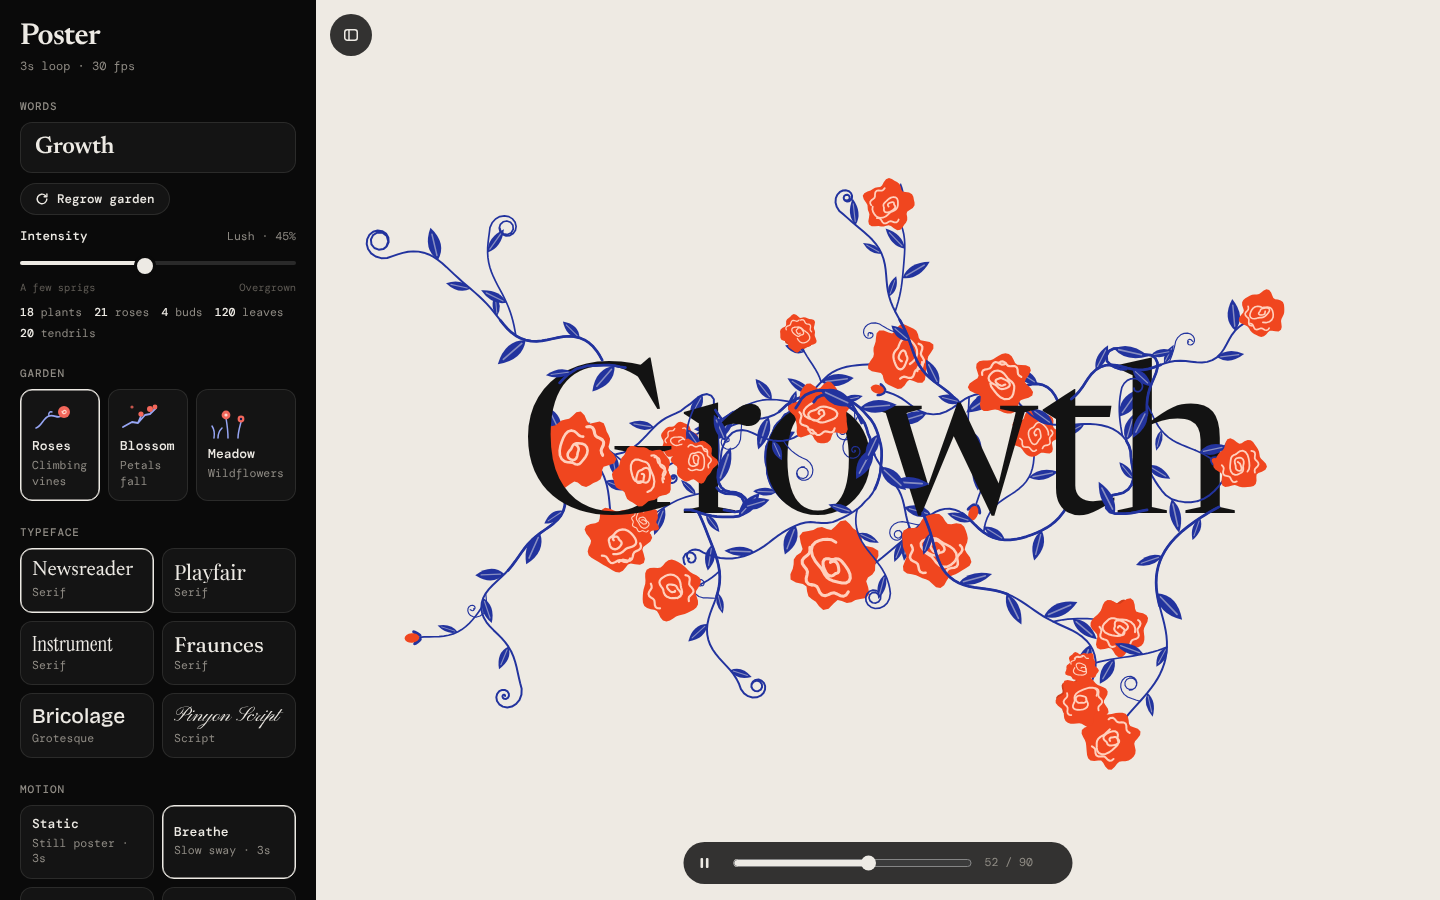
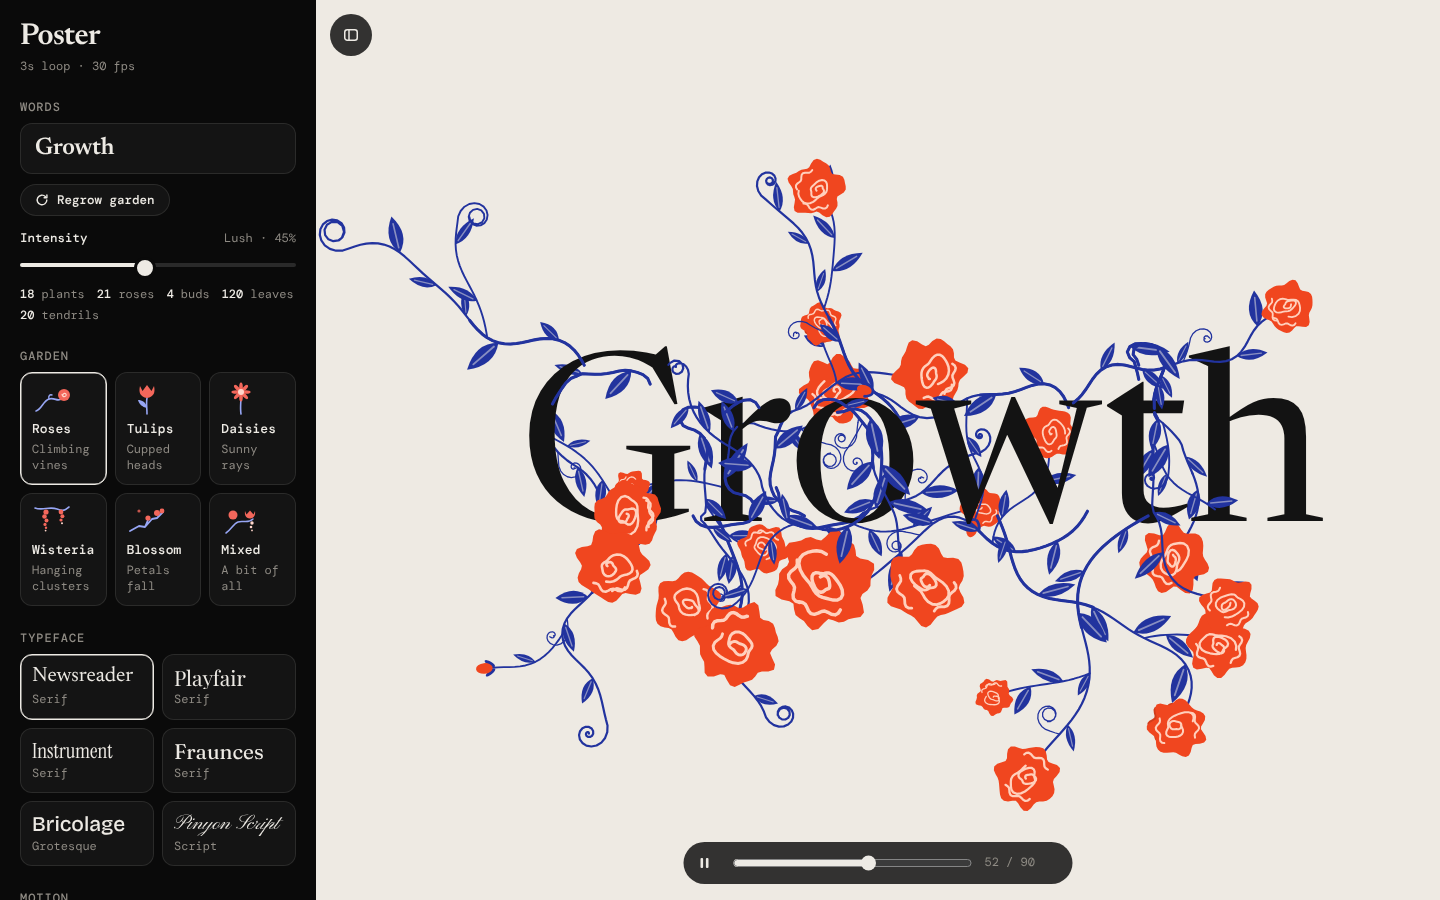
Gardens: add Tulips, Daisies, Wisteria and Mixed; remove Meadow
- Flower gardens reuse the rose vines (same seed, same stems) and
  swap the heads, so Roses stay exactly as before
- New heads: tulip (cup along the stem), wisteria (cluster that hangs
  and swings); daisy and poppy reused; Mixed draws all five
- Meadow generator and grass removed; a saved 'meadow' falls back
  to Roses
- README gardens table and preview images updated

Lighthouse 12.2.1 after this change: mobile 95-97, desktop 100;
Accessibility, Best Practices, SEO 100.

diff --git a/index.html b/index.html
@@ -288,10 +288,16 @@ const MOTIONS = [
 const STYLES = [
   { id:'rose',    name:'Roses',   desc:'Climbing vines', noun:'roses',
     icon:'<svg viewBox="0 0 40 34" fill="none"><path d="M4 30c6-2 7-10 13-12s9 4 14-1" stroke="#97A6F4" stroke-width="1.6" stroke-linecap="round"/><path d="M17 18c-1-3 1-5 3-4" stroke="#97A6F4" stroke-width="1.4" stroke-linecap="round"/><circle cx="32" cy="14" r="6" fill="#F3675B"/><path d="M31 14a1.6 1.6 0 1 1 2 1.5c-1.6.5-3-.6-3-2.2" stroke="#FFD6CB" stroke-width="1.1" stroke-linecap="round"/></svg>' },
+  { id:'tulip',   name:'Tulips',  desc:'Cupped heads', noun:'tulips',
+    icon:'<svg viewBox="0 0 40 34" fill="none"><path d="M20 33c0-6-1-11 0-16" stroke="#97A6F4" stroke-width="1.6" stroke-linecap="round"/><path d="M20 27c-5-1-8-4-9-8 4 0 8 2 9 8z" fill="#97A6F4"/><path d="M13 5l2.5 5L20 4l4.5 6L27 5c1.5 6 0 11-7 12-7-1-8.5-6-7-12z" fill="#F3675B"/></svg>' },
+  { id:'daisy',   name:'Daisies', desc:'Sunny rays', noun:'daisies',
+    icon:'<svg viewBox="0 0 40 34" fill="none"><path d="M20 33c-1-6 0-12 0-18" stroke="#97A6F4" stroke-width="1.6" stroke-linecap="round"/><g fill="#F3675B" transform="translate(20 11)"><ellipse rx="1.8" ry="4.6" cy="-5"/><ellipse rx="1.8" ry="4.6" cy="-5" transform="rotate(45)"/><ellipse rx="1.8" ry="4.6" cy="-5" transform="rotate(90)"/><ellipse rx="1.8" ry="4.6" cy="-5" transform="rotate(135)"/><ellipse rx="1.8" ry="4.6" cy="-5" transform="rotate(180)"/><ellipse rx="1.8" ry="4.6" cy="-5" transform="rotate(225)"/><ellipse rx="1.8" ry="4.6" cy="-5" transform="rotate(270)"/><ellipse rx="1.8" ry="4.6" cy="-5" transform="rotate(315)"/></g><circle cx="20" cy="11" r="3" fill="#FFD6CB"/></svg>' },
+  { id:'wisteria',name:'Wisteria',desc:'Hanging clusters', noun:'clusters',
+    icon:'<svg viewBox="0 0 40 34" fill="none"><path d="M3 6c8 3 14-2 22 1s9 0 12-2" stroke="#97A6F4" stroke-width="1.6" stroke-linecap="round"/><g fill="#F3675B"><circle cx="14" cy="10" r="2.6"/><circle cx="12.5" cy="14.5" r="2.3"/><circle cx="14.5" cy="18.6" r="2"/><circle cx="13" cy="22.4" r="1.6"/><circle cx="14" cy="25.8" r="1.2"/><circle cx="29" cy="10" r="2.4"/><circle cx="30.4" cy="14.2" r="2"/><circle cx="29" cy="18" r="1.6"/></g><g fill="#FFD6CB"><circle cx="13.6" cy="28.6" r=".9"/><circle cx="30" cy="21.2" r="1"/></g></svg>' },
   { id:'blossom', name:'Blossom', desc:'Petals fall', noun:'blossoms',
     icon:'<svg viewBox="0 0 40 34" fill="none"><path d="M3 29l9-5 6 1 7-8 5-1 6-6M18 25l3-7" stroke="#97A6F4" stroke-width="1.8" stroke-linecap="round" stroke-linejoin="round"/><g fill="#F3675B"><circle cx="30" cy="11" r="3"/><circle cx="35" cy="9" r="2.4"/><circle cx="21" cy="16" r="2.6"/></g><circle cx="12" cy="9" r="1.6" fill="#F3675B" opacity=".8"/></svg>' },
-  { id:'meadow',  name:'Meadow',  desc:'Wild blooms', noun:'flowers',
-    icon:'<svg viewBox="0 0 40 34" fill="none"><path d="M6 32c1-6 0-9-2-12M10 32c0-5 2-8 4-10M20 32c0-8-1-14-2-20M30 32c0-6 2-12 3-16" stroke="#97A6F4" stroke-width="1.5" stroke-linecap="round"/><g fill="#F3675B"><circle cx="18" cy="9" r="4.4"/><circle cx="33" cy="13" r="3.4"/></g><circle cx="18" cy="9" r="1.6" fill="#FFD6CB"/><circle cx="33" cy="13" r="1.2" fill="#0C1A4C"/></svg>' },
+  { id:'mix',     name:'Mixed',   desc:'A bit of all', noun:'flowers',
+    icon:'<svg viewBox="0 0 40 34" fill="none"><path d="M5 31c5-3 7-9 12-11s10 2 15-3" stroke="#97A6F4" stroke-width="1.5" stroke-linecap="round"/><circle cx="12" cy="13" r="4.5" fill="#F3675B"/><path d="M24 9l1.5 3.5 3.5-4 3.5 4L34 9c.5 4-.5 7-5 7.5-4.5-.5-5.5-3.5-5-7.5z" fill="#F3675B"/><g fill="#FFD6CB"><circle cx="31" cy="21" r="1.7"/><circle cx="30" cy="25" r="1.3"/><circle cx="31" cy="28.4" r=".9"/></g></svg>' },
 ];
 const FONTS = [
   { id:'newsreader', name:'Newsreader',   family:'Newsreader',          weight:400, fb:'Georgia, serif' },
@@ -460,7 +466,7 @@ function genRosePlant(r, F){
       wav:{ a1:wav.a1*0.6, f1:wav.f1*1.3, p1:r()*TAU, a2:wav.a2*0.5, f2:wav.f2, p2:r()*TAU, bend:wav.bend }, curl:bEnd==='curl', end:bEnd, fl:genRose(r,false), leaves:{} })); }
   const nt = r() < 0.6 ? 1 + (r() < 0.35 ? 1 : 0) : 0;           // little corkscrew tendrils
   for (let t=0;t<nt;t++) twigs.push(addTwig(F, r, main, lay, { at:Math.floor(N*(0.25+r()*0.6)), angle:0.7+r()*0.6, len:3+(r()*5|0), step:step*0.8, wav:wavParams(r,0.5), curl:true, end:'curl', thin:true }));
-  return { kind:'rose', main, lay, twigs, end, fl:genRose(r,true), leaves:genLeaves(r, main.stem), blooms:[], grass:[], ph:r()*TAU, delay:r(), sph:r(), wMul:1 };
+  return { kind:'rose', main, lay, twigs, end, fl:genRose(r,true), leaves:genLeaves(r, main.stem), blooms:[], ph:r()*TAU, delay:r(), sph:r(), wMul:1 };
 }
 
 /* ---------- Blossom: angular branches, clustered five-petal flowers ---------- */
@@ -476,36 +482,26 @@ function genBlossomPlant(r, F){
   for (let c=0;c<clusters;c++){ const i = Math.floor(N*(0.3+r()*0.7)); const m = 1+(r()*3|0);
     for (let j=0;j<m;j++) blooms.push({ on:-1, i, dx:(r()-.5)*0.11, dy:(r()-.5)*0.11, kind:r()<0.8?'sakura':'sbud', fl:genSakura(r, 0.9), sph:r() }); }
   twigs.forEach((tw, ti) => { const m = r()<0.7 ? 1+(r()*2|0) : 0; for (let j=0;j<m;j++) blooms.push({ on:ti, i:tw.stem-1, dx:(r()-.5)*0.1, dy:(r()-.5)*0.1, kind:r()<0.75?'sakura':'sbud', fl:genSakura(r,0.85), sph:r() }); });
-  return { kind:'blossom', main, lay, twigs, end:'sakura', fl:genSakura(r,1.15), leaves:genLeaves(r, main.stem, { start:6, len:0.05, lenR:0.03, gap:9, wid:0.36 }), blooms, grass:[], ph:r()*TAU, delay:r(), sph:r(), wMul:2.1 };
-}
-
-/* ---------- Meadow: grass tufts and wildflowers rising from the letters ---------- */
-function genMeadowPlant(r, F){
-  const q = pick(r, F.ink, 16, p => p[1]), step = 0.026, N = 14 + (r()*50|0);
-  const wav = { a1:0.08+r()*0.16, f1:0.05+r()*0.06, p1:r()*TAU, a2:0.03+r()*0.05, f2:0.2+r()*0.2, p2:r()*TAU, bend:(r()-.5)*0.012 };
-  const x = r(), end = x<0.42 ? 'daisy' : x<0.74 ? 'poppy' : x<0.86 ? 'bud' : 'none';
-  const main = growPath(F, [q[0],q[1]], -Math.PI/2 + (r()-.5)*0.75, N, step, wav, {}, r);
-  const lay = weave(F, main.pts, r()<0.35 ? 1 : 0), twigs = [];
-  if (N > 30 && r() < 0.35){ const e2 = r()<0.6 ? 'daisy' : 'bud';
-    twigs.push(addTwig(F, r, main, lay, { at:Math.floor(N*(0.35+r()*0.3)), angle:0.3+r()*0.35, len:8+(r()*12|0), step, wav:{ ...wav, p1:r()*TAU }, end:e2, fl:{ R:0.06+r()*0.035, n:11+(r()*5|0), spin:r()*TAU } })); }
-  const grass = []; const nb = 2 + (r()*4|0);
-  for (let b=0;b<nb;b++) grass.push({ dx:(r()-.5)*0.18, h:0.06+Math.pow(r(),1.6)*0.22, lean:(r()-.5)*1.2, w:0.018+r()*0.012, ph:r()*TAU });
-  return { kind:'meadow', main, lay, twigs, end, fl:{ R:0.075+r()*0.06, n:11+(r()*6|0), spin:r()*TAU }, leaves:genLeaves(r, main.stem, { start:2, len:0.16, lenR:0.1, gap:7, wid:0.16, ang:0.25, until:Math.max(6, main.stem*0.5) }), blooms:[], grass, ph:r()*TAU, delay:r(), sph:r(), wMul:0.8 };
+  return { kind:'blossom', main, lay, twigs, end:'sakura', fl:genSakura(r,1.15), leaves:genLeaves(r, main.stem, { start:6, len:0.05, lenR:0.03, gap:9, wid:0.36 }), blooms, ph:r()*TAU, delay:r(), sph:r(), wMul:2.1 };
 }
 
 /* Plants per letter: a seeded pool, of which a random-density share is shown. */
 const plantCache = new Map();
+const VINE_FLOWERS = ['flower','tulip','daisy','poppy','wisteria'];   // 'flower' is the rose
 const plantKey = (ch, k) => [S.seed, S.style, S.font, k, ch].join('|');
 function lettersPlants(ch, k){
   const key = plantKey(ch, k);
   if (plantCache.has(key)) return plantCache.get(key);
   const F = glyphField(ch), r = mulberry32(hash(S.seed, S.style, k, ch)), out = { plants:[], bias:r() };
-  if (!F.empty){ const gen = S.style==='blossom' ? genBlossomPlant : S.style==='meadow' ? genMeadowPlant : genRosePlant;
-    for (let p=0;p<8;p++) out.plants.push(gen(r, F)); }
+  if (!F.empty){ const gen = S.style==='blossom' ? genBlossomPlant : genRosePlant;
+    for (let p=0;p<8;p++) out.plants.push(gen(r, F));
+    if (S.style!=='rose' && S.style!=='blossom'){ const rk = mulberry32(hash(S.seed, 'kind', k, ch));
+      const head = () => S.style==='mix' ? VINE_FLOWERS[(rk()*VINE_FLOWERS.length)|0] : S.style;
+      for (const pl of out.plants){ if (pl.end==='flower') pl.end = head(); for (const tw of pl.twigs) if (tw.end==='flower') tw.end = head(); } } }
   plantCache.set(key, out); return out;
 }
 function plantCount(n, bias){
-  const styleK = S.style==='meadow' ? 1.35 : S.style==='blossom' ? 0.8 : 1;
+  const styleK = S.style==='blossom' ? 0.8 : 1;
   const base = clamp(14/Math.max(n,2), 1, 4.2) * S.density * styleK;
   return clamp(Math.round(base*(0.55 + bias*0.9)), 0, 8);
 }
@@ -519,7 +515,7 @@ function looseBlooms(W,H){
 const mcv = document.createElement('canvas'), mctx = mcv.getContext('2d');
 let layoutCache = null;
 function layout(W,H){
-  const key = [S.word, S.font, S.style, W, H, fontsReady].join('|');
+  const key = [S.word, S.font, W, H, fontsReady].join('|');
   if (layoutCache && layoutCache.key===key) return layoutCache;
   const word = S.word || ' ';
   mctx.font = fontCss(100);
@@ -528,8 +524,7 @@ function layout(W,H){
   mctx.font = fontCss(fs);
   const tw = mctx.measureText(word).width, off = [];
   for (let k=0;k<=word.length;k++) off.push(mctx.measureText(word.slice(0,k)).width);
-  // a meadow grows upward, so the word sits lower to give the flowers sky
-  layoutCache = { key, fs, x0:(W-tw)/2, base:H*0.5 + fs*(S.style==='meadow' ? 0.62 : 0.3), off, tw, font:fontCss(fs) };
+  layoutCache = { key, fs, x0:(W-tw)/2, base:H*0.5 + fs*0.3, off, tw, font:fontCss(fs) };
   return layoutCache;
 }
 
@@ -660,6 +655,26 @@ function drawPoppy(ctx, x,y, R, rot, fl, bloom, P){
   for (let j=0;j<11;j++){ const a=j/11*TAU; ctx.beginPath(); ctx.moveTo(Math.cos(a)*r*0.2, Math.sin(a)*r*0.2); ctx.lineTo(Math.cos(a)*r*0.36*o, Math.sin(a)*r*0.36*o); ctx.stroke(); }
   ctx.restore();
 }
+function drawTulip(ctx, x,y, R, tang, bloom, P){
+  if (bloom <= 0.01) return; const r = R*1.35*bloom, o = clamp((bloom-0.3)/0.7);
+  const cup = s => { ctx.beginPath(); ctx.moveTo(-0.62*r*s, -0.7*r*s); ctx.lineTo(-0.52*r*s, -1.32*r*s);
+    ctx.quadraticCurveTo(-0.26*r*s, -0.98*r*s, 0, -1.42*r*s); ctx.quadraticCurveTo(0.26*r*s, -0.98*r*s, 0.52*r*s, -1.32*r*s);
+    ctx.lineTo(0.62*r*s, -0.7*r*s); ctx.bezierCurveTo(0.62*r*s, 0, -0.62*r*s, 0, -0.62*r*s, -0.7*r*s); ctx.closePath(); };
+  ctx.save(); ctx.translate(x,y); ctx.rotate(tang + Math.PI/2); ctx.scale(0.72 + 0.28*o, 1);
+  ctx.fillStyle = P.shade; for (const a of [-0.24, 0.24]){ ctx.save(); ctx.rotate(a*o); cup(1.04); ctx.fill(); ctx.restore(); }
+  ctx.fillStyle = P.flower; cup(1); ctx.fill();
+  ctx.globalAlpha = 0.7*o; ctx.strokeStyle = P.detail; ctx.lineWidth = Math.max(0.7, r*0.06); ctx.lineCap = 'round';
+  ctx.beginPath(); ctx.moveTo(0, -0.25*r); ctx.quadraticCurveTo(0.06*r, -0.7*r, 0, -1.05*r); ctx.stroke();
+  ctx.restore();
+}
+function drawWisteria(ctx, x,y, R, swing, bloom, P){
+  if (bloom <= 0.01) return; const n = 16, L = R*3.4, shown = n*clamp(bloom);
+  ctx.save(); ctx.translate(x,y); ctx.rotate(swing*0.6);
+  for (let i=0;i<shown;i++){ const t = i/(n-1), rr = R*(0.34 - t*0.18)*easeOut(clamp(shown - i));
+    ctx.fillStyle = i%3===2 ? P.shade : t > 0.82 ? P.detail : P.flower;
+    ctx.beginPath(); ctx.arc(Math.sin(i*2.3)*R*0.5*(1-t*0.7) + Math.sin(t*Math.PI)*R*0.25, R*0.2 + t*L, Math.max(0.5, rr), 0, TAU); ctx.fill(); }
+  ctx.restore();
+}
 function drawFlower(ctx, kind, x,y, R, tang, extraRot, fl, bloom, P){
   if (kind==='flower' || kind==='rose') drawRose(ctx, x,y, R, tang+extraRot, fl, bloom, P);
   else if (kind==='bud') drawBud(ctx, x,y, R, tang, bloom, P);
@@ -667,8 +682,10 @@ function drawFlower(ctx, kind, x,y, R, tang, extraRot, fl, bloom, P){
   else if (kind==='sbud') drawSakura(ctx, x,y, R, tang, Math.min(bloom, 0.36), P);
   else if (kind==='daisy') drawDaisy(ctx, x,y, R, fl.spin+extraRot, fl, bloom, P);
   else if (kind==='poppy') drawPoppy(ctx, x,y, R, fl.spin+extraRot, fl, bloom, P);
+  else if (kind==='tulip') drawTulip(ctx, x,y, R, tang+extraRot*0.5, bloom, P);
+  else if (kind==='wisteria') drawWisteria(ctx, x,y, R, extraRot, bloom, P);
 }
-const isBloom = k => k==='flower'||k==='rose'||k==='sakura'||k==='daisy'||k==='poppy';
+const isBloom = k => k==='flower'||k==='rose'||k==='sakura'||k==='daisy'||k==='poppy'||k==='tulip'||k==='wisteria';
 
 /* Place a plant's geometry for this frame: displaced points and growth progress. */
 function placePlant(pl, O, fs, M, g){
@@ -690,22 +707,9 @@ function flowerRot(M, ph, x){
   if (M.light) r += 0.15*Math.sin(TAU*M.u + ph);
   return r;
 }
-function drawGrass(ctx, it, M, P){
-  const pl = it.pl, fs = M.fs, root = it.D[0], gg = easeOut(clamp(it.g*1.5));
-  ctx.fillStyle = P.vine;
-  for (const b of pl.grass){ const h = b.h*fs*gg; if (h < 1) continue;
-    const bx = root[0] + b.dx*fs, by = root[1] + fs*0.015, tx0 = bx + b.lean*h*0.45, ty0 = by - h;
-    const d = displace(tx0, ty0, 1, 0, 1, pl.ph + b.ph, M), k = h/(fs*0.4);
-    const tx = tx0 + d[0]*k, ty = ty0 + d[1]*k, w = b.w*fs;
-    ctx.beginPath(); ctx.moveTo(bx - w/2, by);
-    ctx.quadraticCurveTo(bx + (tx-bx)*0.2 - w*0.15, by - h*0.55, tx, ty);
-    ctx.quadraticCurveTo(bx + (tx-bx)*0.2 + w*0.45, by - h*0.5, bx + w/2, by);
-    ctx.fill(); }
-}
 function drawPlant(ctx, it, M, P, pass, spots){
   const { pl, D } = it, fs = M.fs, w = Math.max(1, fs*0.013*pl.wMul), lay = pl.lay;
   ctx.strokeStyle = P.vine; ctx.lineCap='round'; ctx.lineJoin='round';
-  if (pl.grass.length && lay[0]===pass) drawGrass(ctx, it, M, P);
   if (it.visMain <= 0) return;
   // stem, tapered toward the tip
   if (pl.kind==='blossom'){ ctx.lineWidth = w*0.38; strokeRuns(ctx, D, it.visMain, lay, pass);
@@ -843,9 +847,10 @@ function render(ctx, W, H, u, live, now, transparent){
   if (M.id==='scatter'){
     for (const b of looseBlooms(W,H)){ const bl = scatterBloom(b.ph, u); if (bl<=0) continue;
       const x=b.x*W, y=b.y*H;
-      if (S.style==='blossom') drawSakura(ctx, x, y, b.sk.R*fs, b.sk.spin, bl, P);
-      else if (S.style==='meadow') drawDaisy(ctx, x, y, b.fl.R*fs*0.9, b.fl.spin, b.fl, bl, P);
-      else { drawLeaf(ctx, x, y, b.leaf, b.fl.R*fs*1.6*clamp(bl), 0.34, P); drawRose(ctx, x, y, b.fl.R*fs, Math.sin(TAU*u+b.ph*TAU)*0.1, b.fl, bl, P); } }
+      if (S.style==='blossom'){ drawSakura(ctx, x, y, b.sk.R*fs, b.sk.spin, bl, P); continue; }
+      const kind = S.style==='mix' ? VINE_FLOWERS[(b.ph*VINE_FLOWERS.length)|0] : S.style==='rose' ? 'flower' : S.style;
+      drawLeaf(ctx, x, y, b.leaf, b.fl.R*fs*1.6*clamp(bl), 0.34, P);
+      drawFlower(ctx, kind, x, y, b.fl.R*fs, -Math.PI/2, Math.sin(TAU*u+b.ph*TAU)*0.1, b.fl, bl, P); }
   }
   const spots = [];
   for (const it of items) drawPlant(ctx, it, M, P, 0, spots);
@@ -871,6 +876,7 @@ function persist(){ try { localStorage.setItem('bloomtype.v2', JSON.stringify(S)
 
 /* Intensity sets the garden's fullness; each regrow adds a little randomness around it. */
 if (typeof S.intensity !== 'number') S.intensity = 0.45;
+if (!STYLES.some(x => x.id === S.style)) S.style = 'rose';   // e.g. a saved 'meadow' from an older version
 if (typeof S.jitter !== 'number') S.jitter = 1;
 function densityOf(){ return +(lerp(0.3, 2.4, Math.pow(S.intensity, 1.1)) * S.jitter).toFixed(3); }
 S.density = densityOf();
@@ -915,11 +921,10 @@ function updateStats(){
   const n = S.word.length; let plants=0, flowers=0, buds=0, curls=0, leaves=0;
   const tally = k => { if (isBloom(k)) flowers++; else if (k==='bud'||k==='sbud') buds++; else if (k==='curl') curls++; };
   for (let k=0;k<n;k++){ const lp = lettersPlants(S.word[k], k), want = plantCount(n, lp.bias);
-    for (let p=0;p<Math.min(want, lp.plants.length);p++){ const pl = lp.plants[p]; plants++; leaves += pl.leaves.length + pl.grass.length; tally(pl.end);
+    for (let p=0;p<Math.min(want, lp.plants.length);p++){ const pl = lp.plants[p]; plants++; leaves += pl.leaves.length; tally(pl.end);
       for (const tw of pl.twigs){ leaves += tw.leaves.length; tally(tw.end); } for (const b of pl.blooms) tally(b.kind); } }
-  const leafNoun = S.style==='meadow' ? 'leaves & blades' : 'leaves';
   document.getElementById('stats').innerHTML =
-    `<span><b>${plants}</b> plants</span><span><b>${flowers}</b> ${STY().noun}</span><span><b>${buds}</b> buds</span><span><b>${leaves}</b> ${leafNoun}</span>${curls?`<span><b>${curls}</b> tendrils</span>`:''}`;
+    `<span><b>${plants}</b> plants</span><span><b>${flowers}</b> ${STY().noun}</span><span><b>${buds}</b> buds</span><span><b>${leaves}</b> leaves</span>${curls?`<span><b>${curls}</b> tendrils</span>`:''}`;
 }
 
 /* ---------- intensity meter ---------- */

diff --git a/README.md b/README.md
@@ -14,13 +14,16 @@ BloomType turns any word into a living poster. Vines climb the letterforms, rose
 
 ## Gardens
 
-![The word Bloom in three gardens: climbing roses on black, blossom branches on navy, a meadow of poppies on butter yellow](docs/styles.png)
+![The word Bloom in six gardens: roses, tulips, daisies, wisteria, blossom and a mixed garden](docs/styles.png)
 
 | Garden | What grows |
 | --- | --- |
 | **Roses** | Ivy that climbs each letter's outline and weaves over and under its strokes, with swirl roses, buds and corkscrew tendrils |
+| **Tulips** | The same climbing vines, crowned with cupped tulips facing along the stem |
+| **Daisies** | Climbing vines with open daisies |
+| **Wisteria** | Climbing vines with flower clusters that hang and swing |
 | **Blossom** | Angular branches with clusters of five-petal blossom; petals drift down in every motion |
-| **Meadow** | Grass tufts, daisies and poppies rising from the base of the word |
+| **Mixed** | Roses, tulips, daisies, poppies and wisteria in one garden |
 
 ## Controls
 
